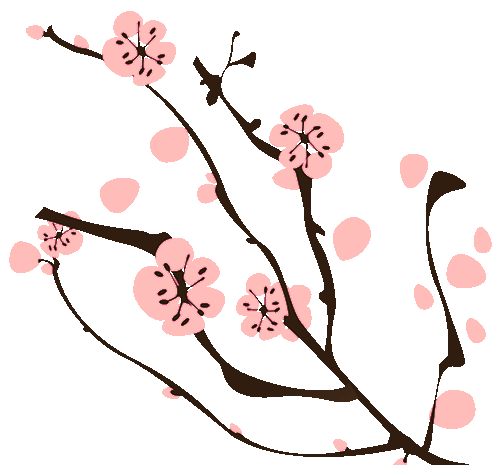
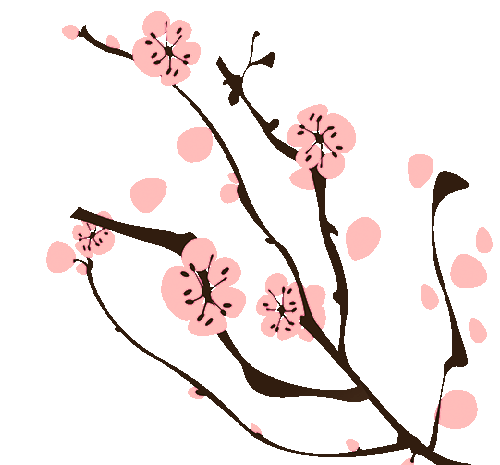
Scroll wheel + Image Glitch
Adjusted graphics' positions to not collide with the scroll wheel

diff --git a/css/botui.css b/css/botui.css
@@ -5,6 +5,12 @@
     font-family: "Open Sans", sans-serif
 }
 
+.botui-app-container {
+    width: auto;
+    height: 100%;
+    margin: 0 auto;
+}
+
 .botui-messages-container {
     padding: 10px 20px
 }
